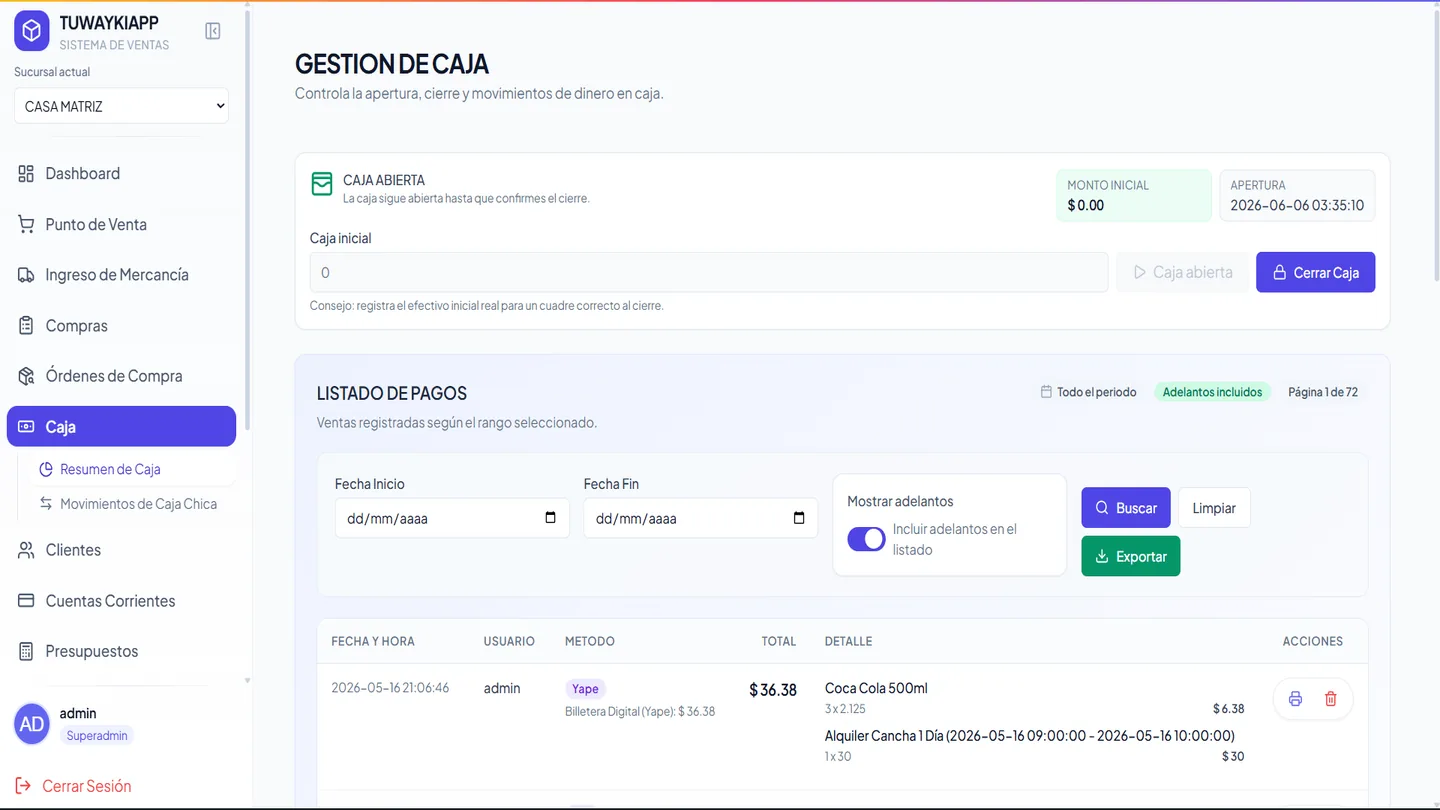
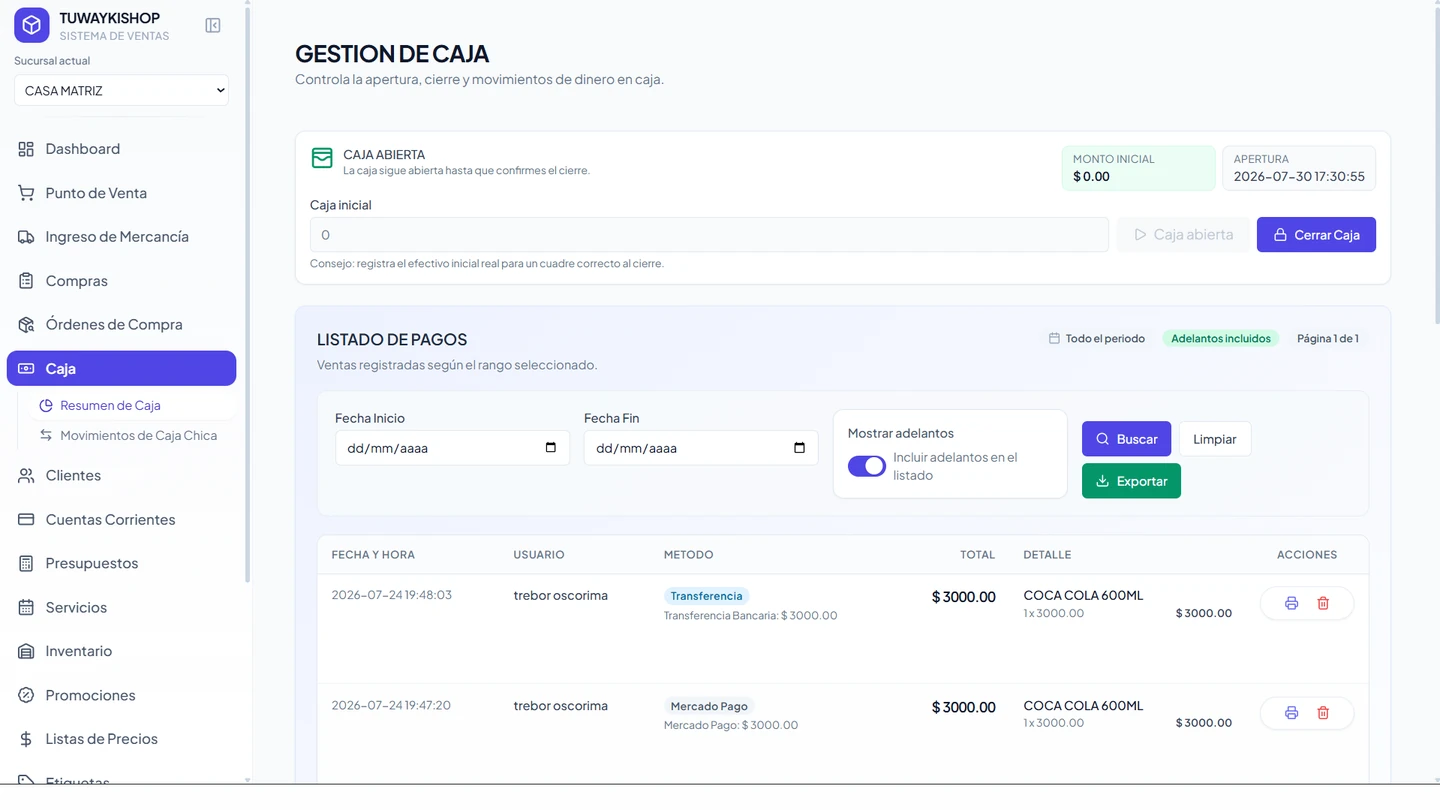
feat(landing): capturas TUWAYKISHOP y rubros coherentes con retail
- Regenerar las 5 capturas del landing (dashboard/venta/inventario/caja/
  reportes) con la marca TUWAYKISHOP y datos reales (1440x810 webp)
- Mockup del navegador: tuwaykiapp.com -> sys.tuwayki.app
- Carrusel de rubros: quitar Gastronomia (es TUWAYKIFOOD), Salones/estetica
  (turnos no soportados) y Talleres/servicios (sin ordenes de trabajo);
  agregar Bazares y regaleria, Minimarkets y kioscos, Ferreterias
- Caso de uso "Servicios y Talleres" -> "Distribuidoras y Mayoristas"

diff --git a/app/pages/marketing/_state.py b/app/pages/marketing/_state.py
@@ -69,10 +69,10 @@ TRUST_BADGES = [
 INDUSTRIES = [
     ("store",          "Tiendas y retail",      "POS + stock + caja"),
     ("dumbbell",       "Canchas deportivas",     "Reservas + cobros"),
-    ("wrench",         "Talleres y servicios",   "Órdenes + historial"),
+    ("gift",           "Bazares y regalería",    "Alta variedad"),
     ("truck",          "Distribuidoras",         "Inventario intensivo"),
-    ("utensils",       "Gastronomía",            "Ventas + caja rápida"),
-    ("scissors",       "Salones y estética",     "Turnos + facturación"),
+    ("shopping-basket", "Minimarkets y kioscos",  "Ventas + caja rápida"),
+    ("hammer",         "Ferreterías",            "Miles de productos"),
     ("building-2",     "Multi-sucursal",         "Control centralizado"),
     ("package",        "Bodegas",                "Stock + Kardex"),
 ]
@@ -186,10 +186,10 @@ USE_CASES = [
         "accent": "emerald",
     },
     {
-        "icon": "wrench",
-        "title": "Servicios y Talleres",
-        "description": "Órdenes de trabajo, cobro por servicio finalizado y seguimiento de clientes recurrentes con historial.",
-        "features": ["Órdenes de servicio", "Cobro parcial y final", "Historial de clientes"],
+        "icon": "truck",
+        "title": "Distribuidoras y Mayoristas",
+        "description": "Alto volumen de inventario con listas de precios por cliente, ventas al por mayor y cuentas corrientes con seguimiento de saldos.",
+        "features": ["Listas de precios por cliente", "Cuentas corrientes y saldos", "Stock por bodega en tiempo real"],
         "accent": "amber",
     },
     {

diff --git a/app/pages/marketing/_sections.py b/app/pages/marketing/_sections.py
@@ -535,7 +535,7 @@ def _screenshots_section() -> rx.Component:
                         ),
                         rx.el.div(
                             rx.el.span(
-                                "tuwaykiapp.com",
+                                "sys.tuwayki.app",
                                 class_name="text-xs text-slate-400 font-mono",
                             ),
                             class_name="flex-1 mx-3 bg-white rounded-md px-3 py-1 text-center border border-slate-200",
